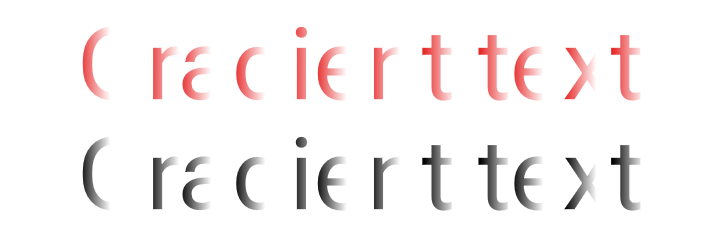
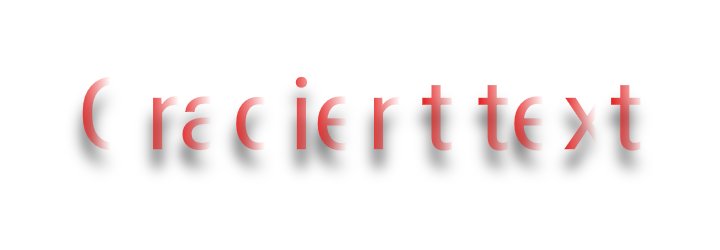
Draw the shadow in the gradient shadow scene as a blurred shadow
The shadow was offset by 110 px with no blur, so it looked like a second
line of black text. It is now 18 px below the text and blurred by 14 px,
and the line is in the middle of the canvas.

Built with assistance from Claude Code

diff --git a/src/gradient.rs b/src/gradient.rs
@@ -12,8 +12,8 @@
 //! 100 px and is drawn as outlines.
 //!
 //! `shadow` draws one 100 px line with a gradient that goes from opaque to transparent, under a
-//! canvas shadow. A shadow has the shadow colour and the alpha of what was drawn, so it fades the
-//! way the text does.
+//! blurred canvas shadow. A shadow has the shadow colour and the alpha of what was drawn, so it
+//! fades the way the text does.
 
 mod offscreen;
 
@@ -29,9 +29,10 @@ const OUTLINE_SIZE: f32 = 100.0;
 /// The gradient starts and ends 40 px inside the canvas, which is about where the lines do.
 const GRADIENT_START: f32 = 40.0;
 const GRADIENT_END: f32 = WIDTH as f32 - 40.0;
-/// The shadow is drawn this far below the text, which is further than the line is tall, so the
-/// two do not overlap.
-const SHADOW_OFFSET_Y: f32 = 110.0;
+/// The shadow is drawn this far below the text and blurred, so that it shows as a soft shadow
+/// under every letter.
+const SHADOW_OFFSET_Y: f32 = 18.0;
+const SHADOW_BLUR: f32 = 14.0;
 
 /// A horizontal gradient from red at `GRADIENT_START` to `end` at `GRADIENT_END`, for text
 /// centred on the x and y it is drawn at.
@@ -60,8 +61,9 @@ fn draw_shadow(canvas: &mut Canvas<WGPURenderer>, font: FontId) {
     let paint = gradient(font, transparent_red).with_font_size(OUTLINE_SIZE);
     canvas.set_shadow_color(Color::black());
     canvas.set_shadow_offset(0.0, SHADOW_OFFSET_Y);
+    canvas.set_shadow_blur(SHADOW_BLUR);
     canvas
-        .fill_text(WIDTH as f32 / 2.0, 65.0, WORDS, &paint)
+        .fill_text(WIDTH as f32 / 2.0, 115.0, WORDS, &paint)
         .expect("fill_text");
 }
 

diff --git a/README.md b/README.md
@@ -45,7 +45,7 @@ the glyph atlas. The bottom line is 100 px and is drawn as outlines.
 
 ![Gradient text on master and with the fix](images/gradient-text-side-by-side.png)
 
-One 100 px line with a gradient that goes from opaque to transparent, and its shadow below it.
+One 100 px line with a gradient that goes from opaque to transparent, under a blurred shadow.
 
 ![Gradient text and its shadow on master and with the fix](images/gradient-shadow-side-by-side.png)
 
@@ -198,12 +198,13 @@ the gradient goes from opaque red to transparent red.
 ```rust
 let paint = Paint::linear_gradient(40.0, 0.0, 680.0, 0.0, red, transparent_red); // and the font, 100 px
 canvas.set_shadow_color(Color::black());
-canvas.set_shadow_offset(0.0, 110.0);
-canvas.fill_text(360.0, 65.0, "Gradient text", &paint)?;
+canvas.set_shadow_offset(0.0, 18.0);
+canvas.set_shadow_blur(14.0);
+canvas.fill_text(360.0, 115.0, "Gradient text", &paint)?;
 ```
 
-On master the text and its shadow both fade inside every letter. With the fix both fade once,
-from the left end of the line to the right end.
+On master the text fades inside every letter, and every letter has its own patch of shadow. With
+the fix the text and its shadow both fade once, from the left end of the line to the right end.
 
 ### What was chosen to make the effect easy to see
 
@@ -215,8 +216,8 @@ Nothing was searched for. These were chosen by hand:
   look like.
 - A gradient to transparent in the shadow scene, because a shadow takes only its alpha from the
   paint.
-- A shadow offset of 110 px, which is more than the height of the line. The shadow is then below
-  the text and does not overlap it.
+- A shadow that is 18 px below the text and blurred by 14 px. It stays visible under the
+  letters and looks like a shadow.
 
 [`src/gradient.rs`](src/gradient.rs) draws both scenes. It prints nothing, so
 [`images/gradient-text-summary.txt`](images/gradient-text-summary.txt) and
